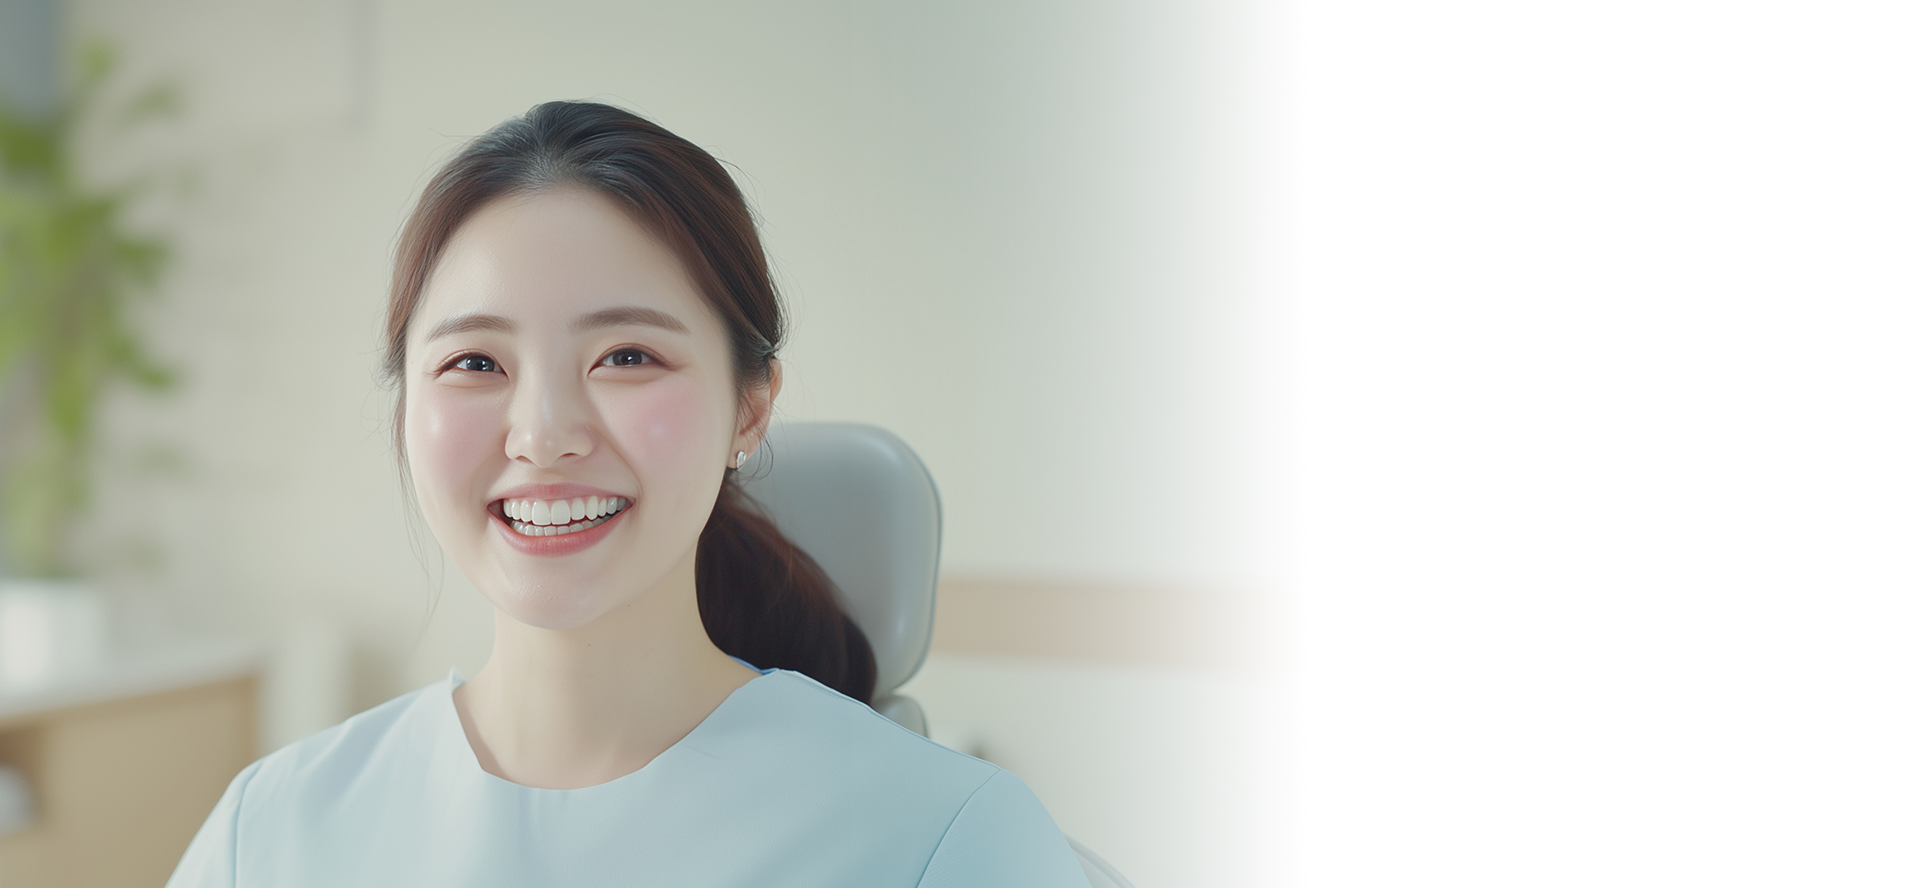
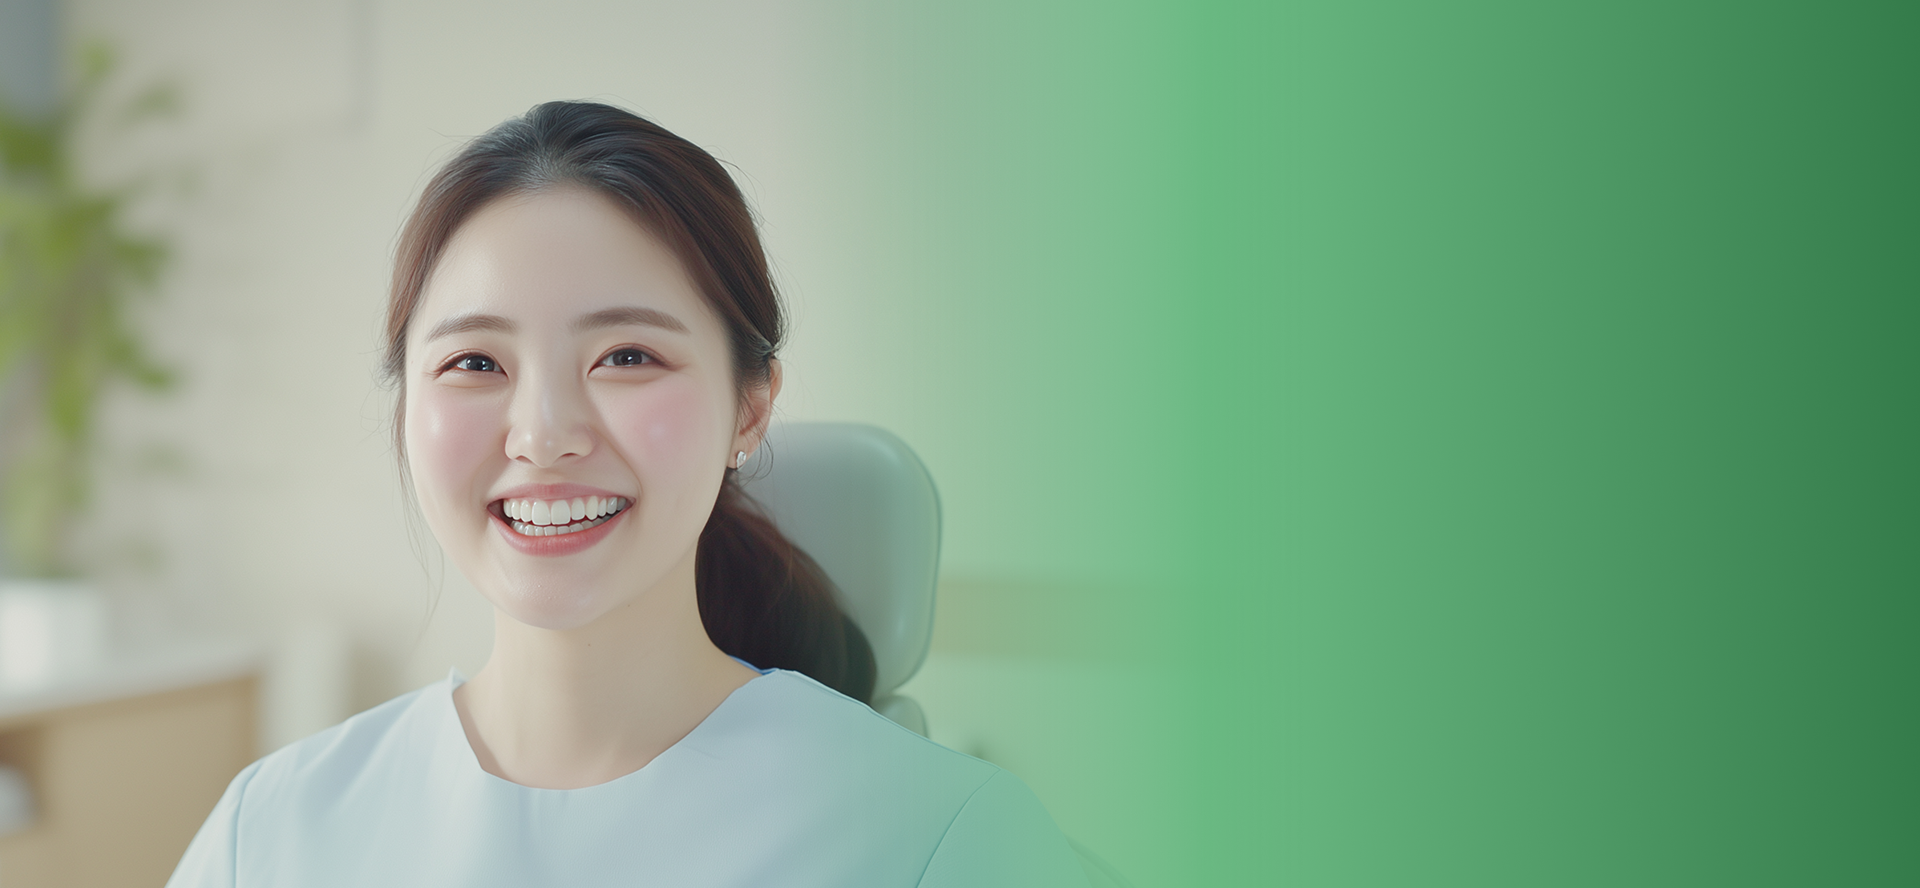
중간저장

diff --git a/css/style.css b/css/style.css
@@ -198,13 +198,6 @@ button{font:inherit}
   bottom: 0;
   left: 35%;
   width: 65%;
-  background: linear-gradient(
-    270deg,
-    rgba(14, 98, 40, 0.84) 0%,
-    rgba(82, 175, 110, 0.60) 40%,
-    rgba(82, 175, 110, 0.25) 70%,
-    rgba(82, 175, 110, 0.0) 100%
-  );
   pointer-events: none;
 }
 
@@ -465,15 +458,13 @@ button{font:inherit}
 /* =========================================================
   5) DOCTORS (Swiper)
 ========================================================= */
-/* =========================================================
-  DOCTORS (Swiper) - Screenshot Match
-========================================================= */
 
 .doctors{
   position: relative;
   padding: 96px 0 0;
-  background: #fff;
-  overflow: hidden;
+/*   background: #fff; */
+  overflow: hidden;  
+  background: url("../img/se2_bg.png") no-repeat center/contain;
 }
 
 /* 하단 아이보리 띠(스크린샷처럼 섹션 아래쪽에 크게 깔림) */
@@ -483,7 +474,7 @@ button{font:inherit}
   left:0; right:0;
   top: 320px;              /* 제목 아래부터 베이지 시작 */
   bottom: 0;
-  background: var(--c-ivory);
+/*   background: var(--c-ivory); */
   z-index: 0;
 }
 
@@ -502,7 +493,7 @@ button{font:inherit}
   top: 70px;
   width: 680px;
   height: 680px;
-  background: url("./img/pattern-mark.png") no-repeat center/contain;
+
   opacity: .08;
   pointer-events:none;
 }
@@ -531,16 +522,16 @@ button{font:inherit}
   margin: 0 auto;
   border-radius: 22px;
   overflow: hidden;
-  background: #fff;
+  background: 
   /* 스크린샷은 과한 테두리/그림자 없음 → 은은하게 */
-  box-shadow: 0 16px 36px rgba(0,0,0,.10);
+  /* box-shadow: 0 16px 36px rgba(0,0,0,.10); */
 }
 
 /* 상단 흰 영역(센터 타이틀) */
 .dcard__top{
   padding: 46px 56px 28px;
   text-align: center;
-  background: #fff;
+/*   background: #fff; */
 }
 
 .dcard__dept{
@@ -567,7 +558,7 @@ button{font:inherit}
   gap: 44px;
   align-items: start;
   padding: 38px 56px 60px;
-  background: var(--c-ivory);
+/*   background: var(--c-ivory); */
 }
 
 /* 의료진 사진: “위는 둥글고 아래는 덜 둥근 + 세로 길게” */
@@ -575,13 +566,16 @@ button{font:inherit}
   overflow: hidden;
   background:#fff;
   /* 위쪽 라운드 크게, 아래는 조금만 */
-  border-radius: 0 220px 0 0;
+  border-radius: 0 180px 0 0;
   box-shadow: 0 14px 26px rgba(0,0,0,.12);
+  width: 360px;
+  max-width: 100%;
+  height: 400px;
 }
 
 .dcard__photo img{
   width:100%;
-  height: 640px;          /* ✅ 세로 길게 */
+  height: 680px;          /* ✅ 세로 길게 */
   object-fit: cover;
   display:block;
 }

diff --git a/index.html b/index.html
@@ -72,7 +72,7 @@
 
       <!-- Slide 1 -->
       <div class="swiper-slide heroSlide">
-        <div class="heroSlide__bg" style="background-image:url('./img/hero1.jpg')"></div>
+        <div class="heroSlide__bg" style="background-image:url('./img/hero1.png')"></div>
 
         <!-- ✅ 오른쪽 절반만 그라데이션 (시안 그라데이션 코드 적용) -->
         <div class="heroSlide__overlay" aria-hidden="true"></div>
